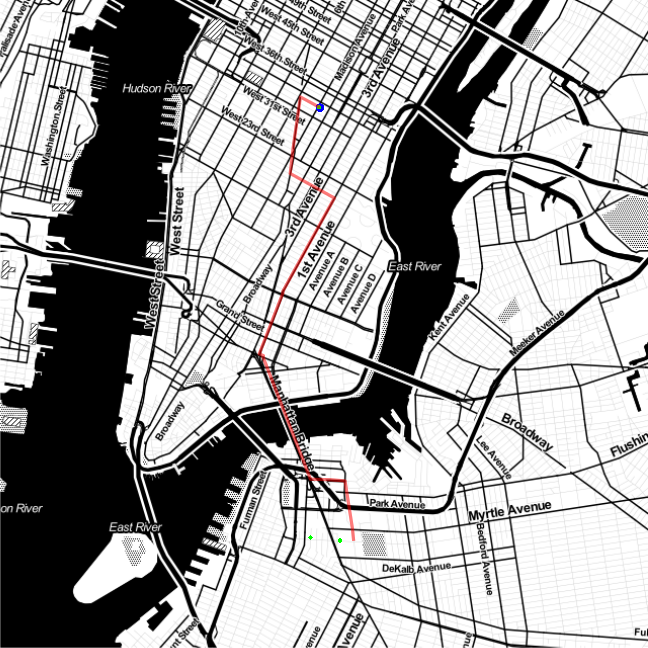
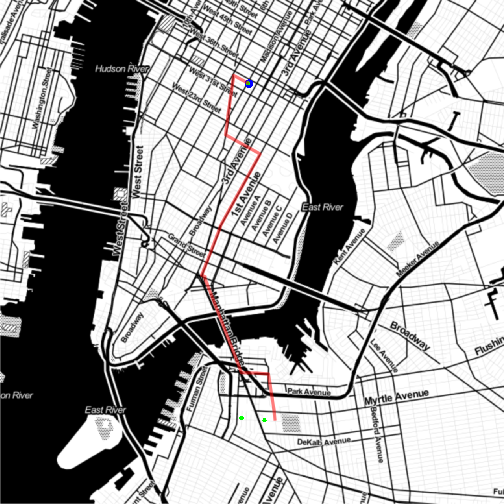
corrected errors in draft "scenic route" post

diff --git a/_posts/2014-11-16-do-women-take-the-scenic-route.md b/_posts/2014-11-16-do-women-take-the-scenic-route.md
@@ -1,8 +1,8 @@
 ---
-title: "Is CitiBike an old boy's club?"
+title: "Do women take the scenic route or do men cycle faster?"
 date: 2014-11-16
 modified: 2015-03-31
-excerpt: "Gender differences in the New York cycle hire data"
+excerpt: "Using the google routing API via ggmap"
 layout: post
 published: true
 status: publish
@@ -13,22 +13,6 @@ tags: [Citibike, gender, dplyr, ggmap]
 
  
 
-{% highlight r %}
-require(dplyr)
-require(lubridate)
-require(ggplot2)
-require(ggmap)
-library(magrittr)
- 
-# Because there was a lot of processing time involved with dealing with this dataset, I chunked up the data into smaller pieces which could be loaded individually to save time!
- 
-load("bikes.RData")
-load("bikes_agg.RData")
-load("journey_route.RData")
-load("bikes_journey_join.RData")
-load("journeys1.RData")
-load("journey_times.Rdata")
-{% endhighlight %}
  
 In my previous post I started looking at the NY CitiBike data, and the differences between the way men and women use the service. It's clear men use the service more, and that women's journeys are generally longer; however it's not clear if this is because they simply travel slower, or because they aren't always taking teh most direct route.
  
@@ -203,10 +187,6 @@ journeys_merge <- tbl_df(
 journeys_merge
 {% endhighlight %}
  
-#```{r}
-#journeys_merge <- journeys1
-#```
- 
 It's also possible to query to google routing api to get a route for each of these journeys. We can plot this to ensure that we have a good coverage across Manhatten Island, but it can also look really cool!
  
 
@@ -266,6 +246,8 @@ get_route <- function(x) {
   }
 {% endhighlight %}
  
+Now apply it
+ 
 
 {% highlight r %}
 # Again i've just used 10 unique journeys here.
@@ -297,10 +279,11 @@ for (i in 1:length(fromx)) {
     )
   rm(journey_route1)  
   }
- 
-journey_route
 {% endhighlight %}
  
+
+ 
+Now plot it out using a standard `ggplot`.
  
 
 {% highlight r %}
@@ -348,13 +331,18 @@ ggplot(
 
 ![plot of chunk journey_route_ggplot](/figures/journey_route_ggplot-1.png) 
  
+But it's much interesting to see this superimposed over a map of NYC using `ggmap`
+ 
 
 {% highlight r %}
+# Set the centre of the plot
+ 
 centre <- c(
   lon = mean(stns$lon),
   lat = mean(stns$lat)
   )
  
+# Use the aesthetically pleasing stamen maps
  
 nymap_stamen_to <- get_map(
   location = centre, 
@@ -362,6 +350,8 @@ nymap_stamen_to <- get_map(
   maptype = "toner", 
   zoom = 13
   )
+ 
+# Apply ggplot layers onto ggmap
  
 ggmap(
   nymap_stamen_to, 
@@ -394,6 +384,8 @@ ggmap(
 {% endhighlight %}
 
 ![plot of chunk journey_plot_ggmap](/figures/journey_plot_ggmap-1.png) 
+ 
+Much better.
  
 So it looks like we have a reasonable coverage of Manhatten island. You could always query the api on multiple days and combine the output if you wanted to include more than 2500 of the 110,000 possible journeys.
  
